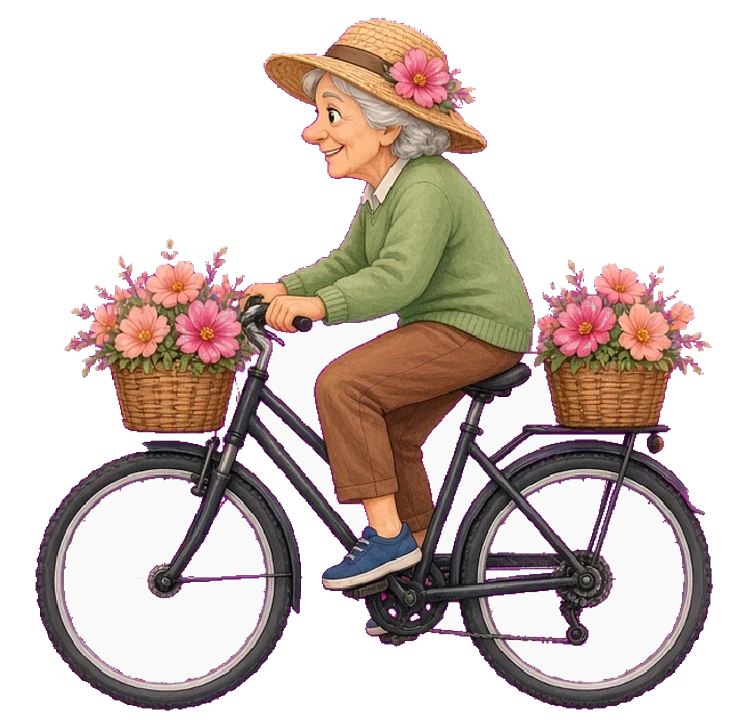
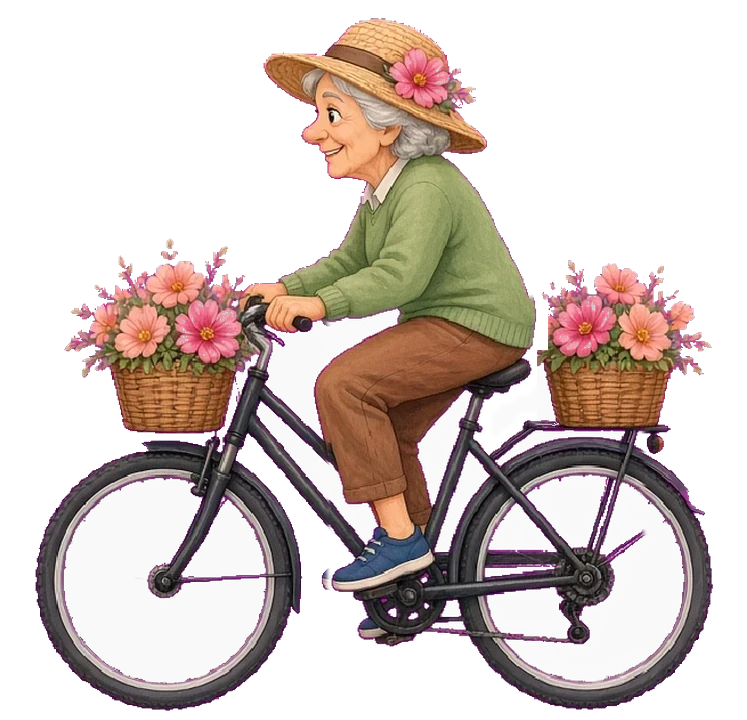
Oprav blikající košíky u babičky na kole
Snímky šlapání jsou zarovnané podle kol a mění se v nich jen nohy
a šlapky, zbytek (košíky, babička, kolo) je ze stejného snímku.
Kreslený první snímek, který měl jinak posazené kolo a košíky,
nahradilo pořadí 1-2-3-2.

Claude-Session: https://claude.ai/code/session_01HvbWHoqHLJQwfRFFMYyRvu

Changed region(s): [[0.4311, 0.3972, 0.8621, 0.9472], [0.8005, 0.9167, 0.8621, 0.9472], [0.4311, 0.4889, 0.4618, 0.5194]]

diff --git a/src/game/runner.ts b/src/game/runner.ts
@@ -422,7 +422,7 @@ function hash(n: number): number {
   return x - Math.floor(x);
 }
 
-const ART_REV = "41";
+const ART_REV = "42";
 
 async function loadImage(src: string): Promise<HTMLImageElement | null> {
   try {
